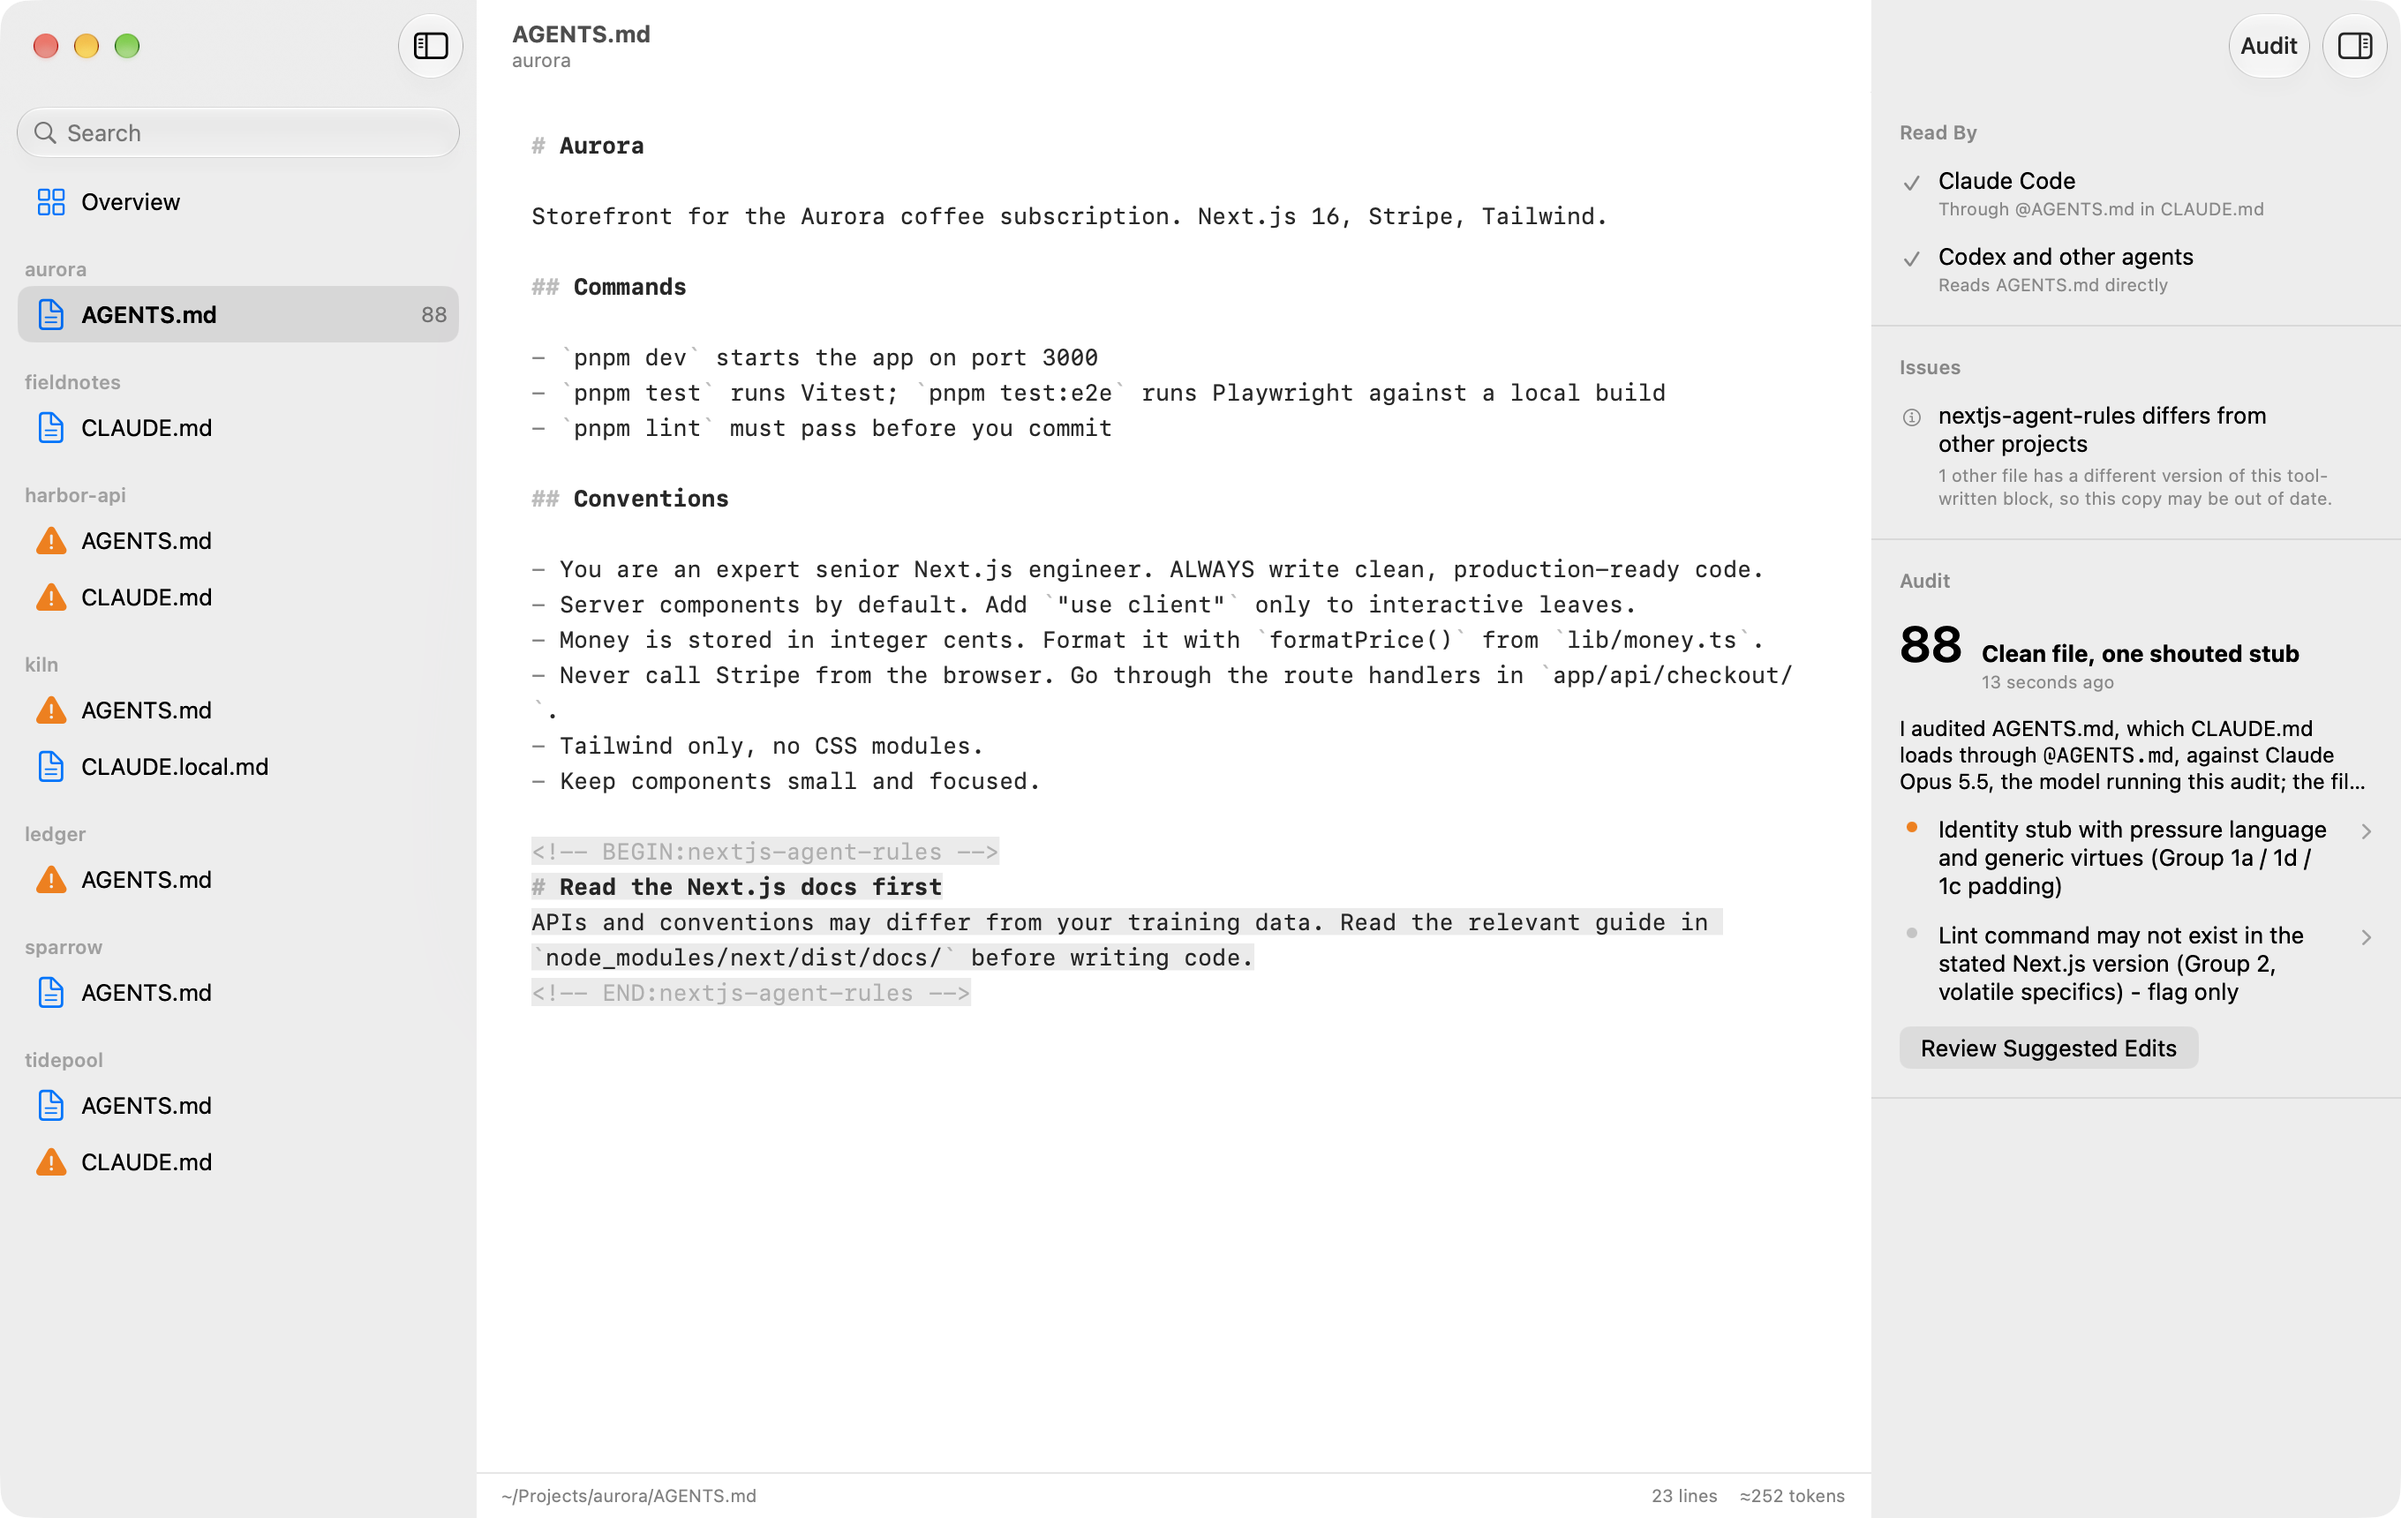
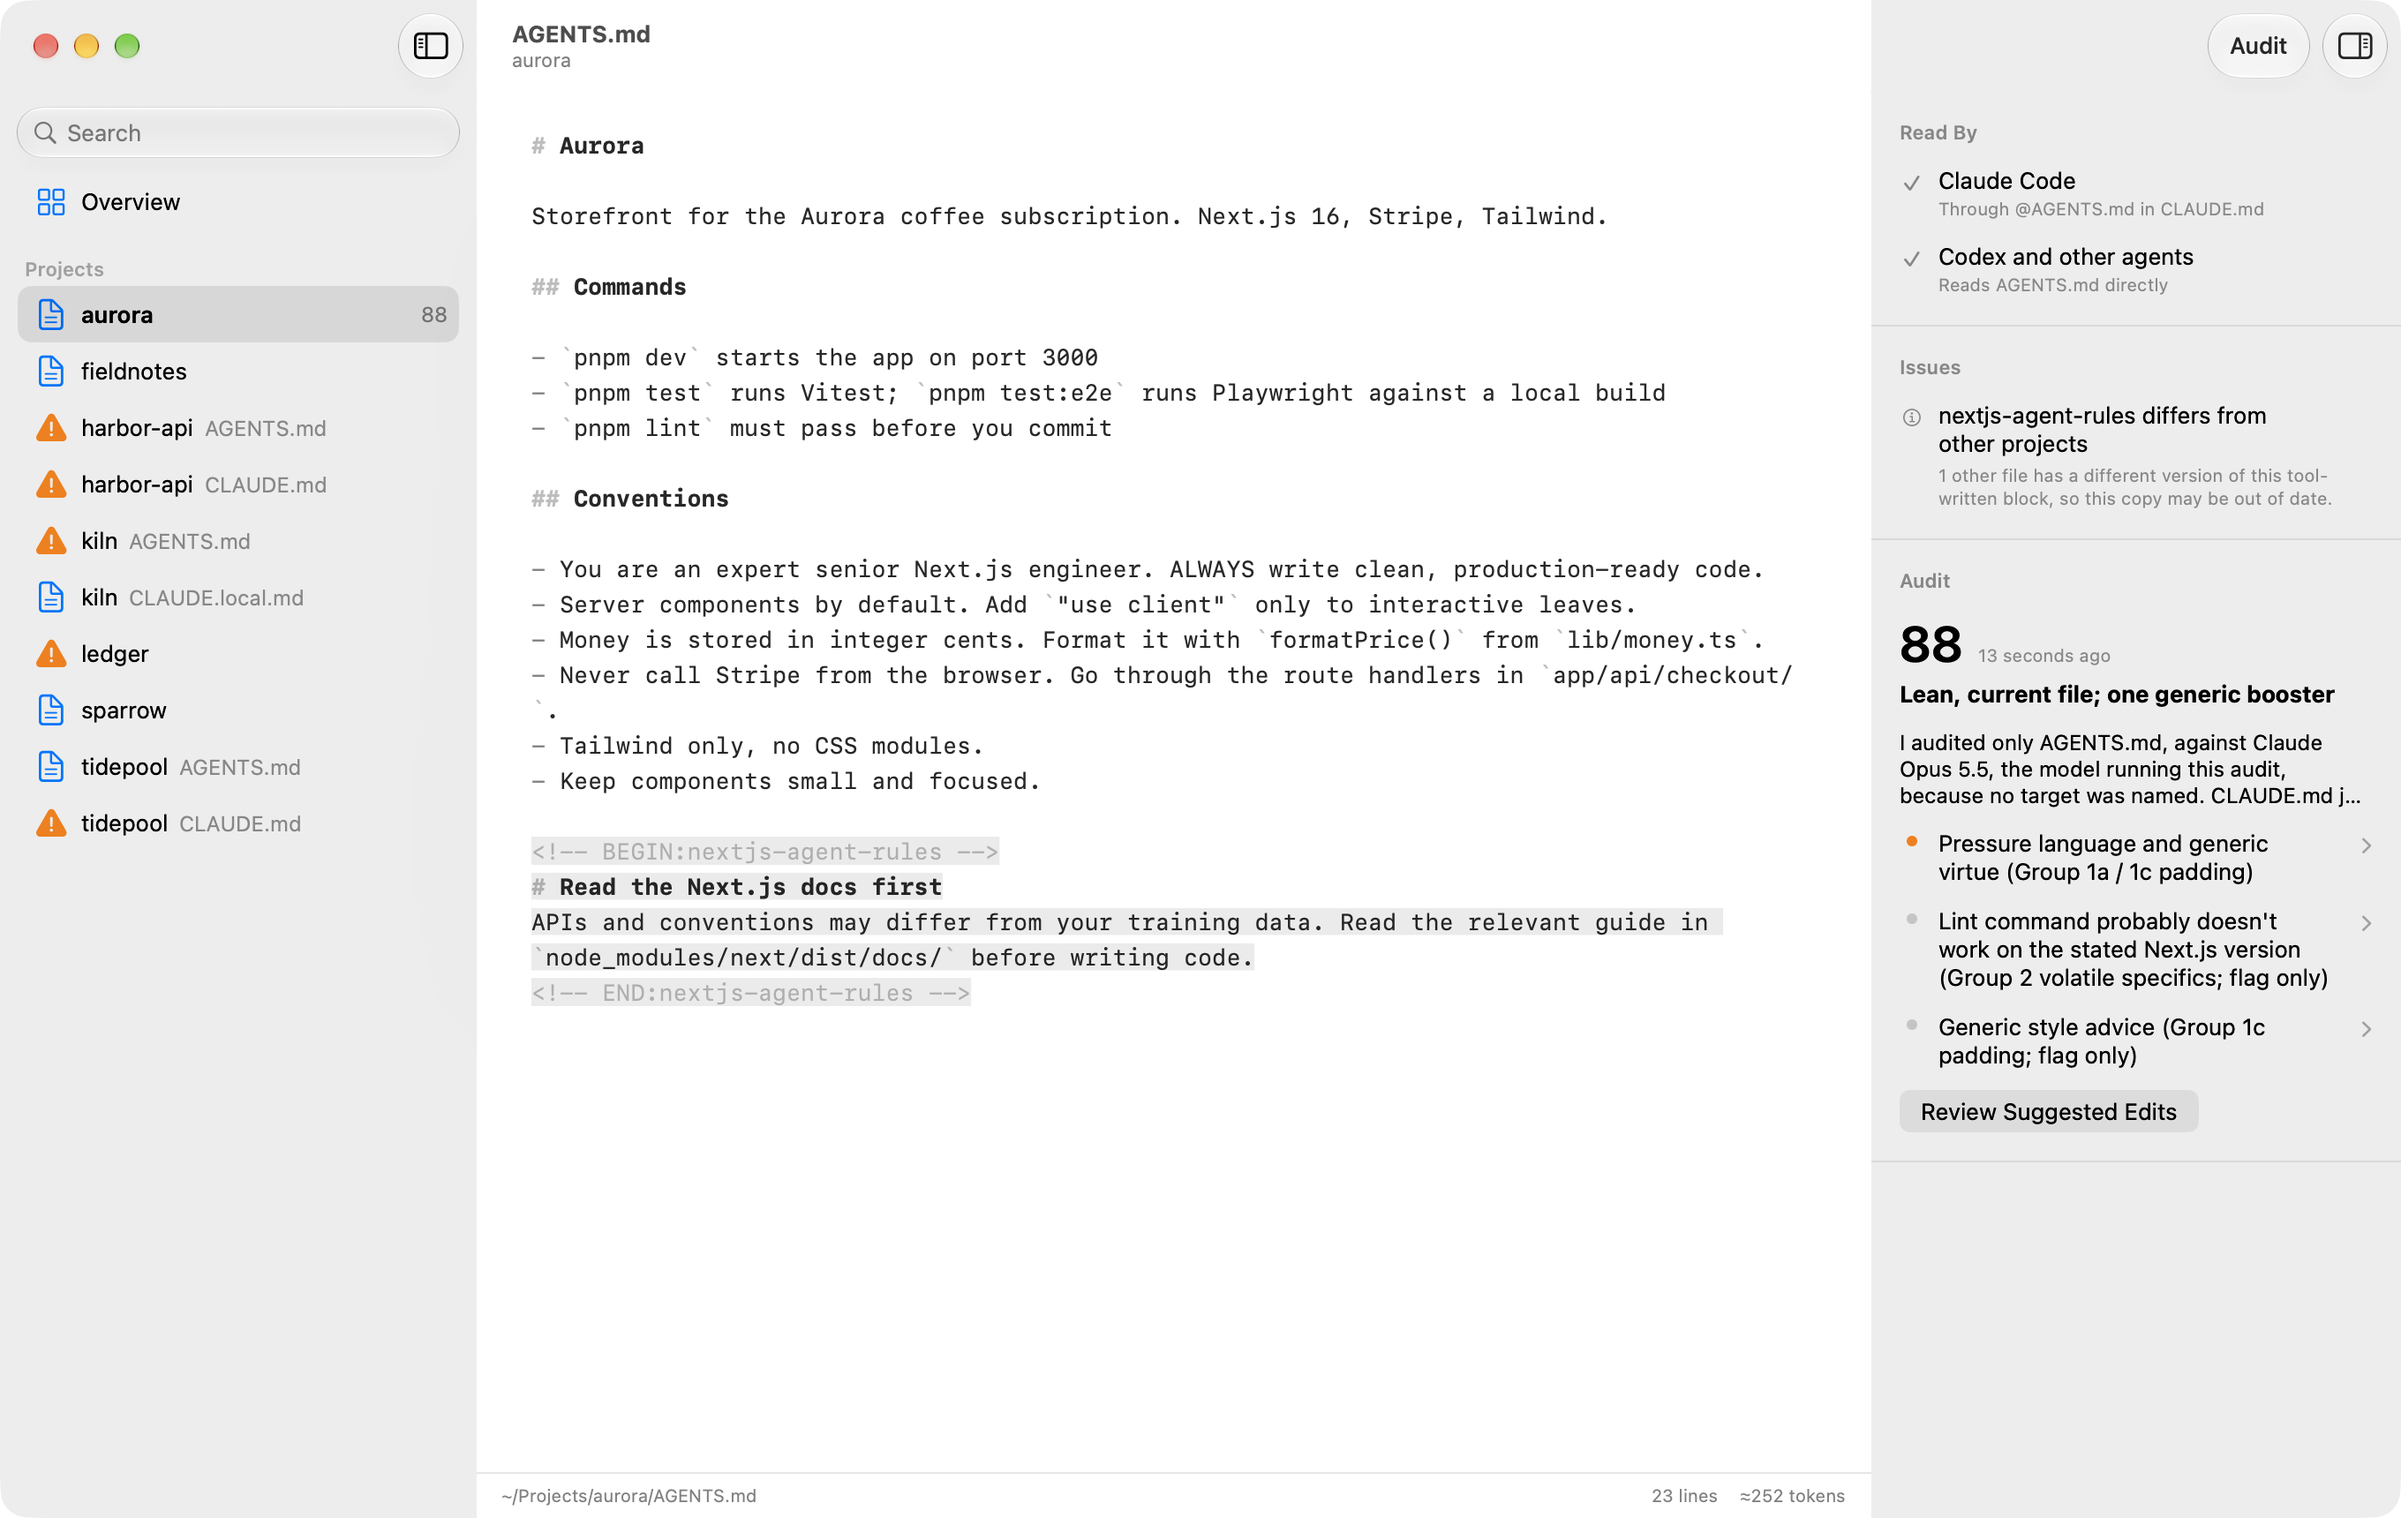
Name sidebar rows by project, version 0.1.2
- A project is one row under "Projects", named for the project. Its file is named beside it
  only when the project has more than one
- Global files keep their own section and are still listed by path
- Refresh the website screenshots
- Take Xcode 27.2's recommended build settings

diff --git a/Sources/Rulebook/Views/ContentView.swift b/Sources/Rulebook/Views/ContentView.swift
@@ -76,13 +76,16 @@ struct SidebarView: View {
                 Label("Overview", systemImage: "square.grid.2x2")
                     .tag(SidebarItem.overview)
             }
-            ForEach(model.visibleProjects) { project in
-                Section(project.name) {
-                    ForEach(project.docIDs, id: \.self) { id in
-                        if let doc = model.doc(id) {
-                            DocRow(doc: doc).tag(SidebarItem.doc(id))
-                                .contextMenu { DocMenu(doc: doc) }
-                        }
+            // A project is one row, named for the project. Its file is only named when it has several.
+            let projects = model.visibleProjects
+            let crowded = Set((model.scan?.projects ?? []).filter { $0.docIDs.count > 1 }.map(\.id))
+            ForEach(projects.filter(\.isGlobal)) { project in
+                Section(project.name) { rows(project, naming: .file) }
+            }
+            if projects.contains(where: { !$0.isGlobal }) {
+                Section("Projects") {
+                    ForEach(projects.filter { !$0.isGlobal }) { project in
+                        rows(project, naming: crowded.contains(project.id) ? .both : .project)
                     }
                 }
             }
@@ -99,16 +102,36 @@ struct SidebarView: View {
             }
         }
     }
+
+    private func rows(_ project: Project, naming: DocRow.Naming) -> some View {
+        ForEach(project.docIDs, id: \.self) { id in
+            if let doc = model.doc(id) {
+                DocRow(doc: doc, naming: naming).tag(SidebarItem.doc(id))
+                    .contextMenu { DocMenu(doc: doc) }
+            }
+        }
+    }
 }
 
 struct DocRow: View {
+    /// What a row is called: its file, its project, or the project with the file beside it.
+    enum Naming { case file, project, both }
+
     let doc: Doc
+    var naming: Naming = .file
     @Environment(AppModel.self) private var model
 
     var body: some View {
         HStack(spacing: 6) {
             Label {
-                Text(doc.title).lineLimit(1).truncationMode(.middle)
+                HStack(alignment: .firstTextBaseline, spacing: 6) {
+                    Text(naming == .file ? doc.title : doc.projectName)
+                        .lineLimit(1).truncationMode(.middle).layoutPriority(1)
+                    if naming == .both {
+                        Text(doc.title).lineLimit(1).truncationMode(.middle)
+                            .font(.callout).foregroundStyle(.secondary)
+                    }
+                }
             } icon: {
                 if let issue = doc.topIssue {
                     Image(systemName: issue.severity.icon).foregroundStyle(issue.severity.color)
@@ -123,7 +146,7 @@ struct DocRow: View {
             Spacer(minLength: 4)
             AuditBadge(doc: doc)
         }
-        .help(doc.topIssue?.title ?? "")
+        .help(doc.topIssue?.title ?? doc.primary.url.path.tildePath)
     }
 }
 
